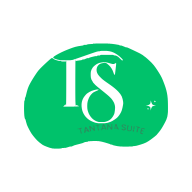
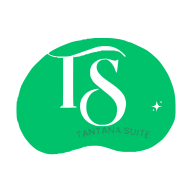
L icone de l application perd sa pastille blanche
Sur l ecran d accueil, la marque arrivait posee sur un rond blanc :
c est la pastille qu on voyait d abord, le logo n etait qu une tache
verte dedans. Les icones sont donc redessinees sur fond transparent,
avec une composition source-over premultipliee pour que les bords
restent propres sans fond derriere.

L icone maskable est verifiee : zero pixel hors du cercle de securite
de 80 %. Le lanceur peut donc y decouper un cercle, un carre arrondi
ou une goutte, il ne retire rien du dessin — le logo garde sa forme
quel que soit le reglage du telephone.

Seule exception, iOS : une apple-touch-icon transparente est remplie
de noir par le systeme, elle garde donc son fond blanc.

Le cache du service worker passe a v3, et l invite d installation
montre le SVG plutot que l icone carree, dont le cadre arrondi ne se
voyait plus.

diff --git a/scripts/generer-icones.js b/scripts/generer-icones.js
@@ -210,47 +210,29 @@ function remplir(polys, taille, SS) {
   return couverture;
 }
 
-/** Couverture d'un rectangle à coins arrondis, par sur-échantillonnage. */
-function couvertureTuile(taille, rayon, SS) {
-  const c = new Float32Array(taille * taille);
-  const dedans = (x, y) => {
-    const cx = Math.min(Math.max(x, rayon), taille - rayon);
-    const cy = Math.min(Math.max(y, rayon), taille - rayon);
-    if (x >= rayon && x <= taille - rayon) return y >= 0 && y <= taille;
-    if (y >= rayon && y <= taille - rayon) return x >= 0 && x <= taille;
-    return (x - cx) ** 2 + (y - cy) ** 2 <= rayon * rayon;
-  };
-  for (let y = 0; y < taille; y++) {
-    for (let x = 0; x < taille; x++) {
-      let n = 0;
-      for (let sy = 0; sy < SS; sy++) {
-        for (let sx = 0; sx < SS; sx++) {
-          if (dedans(x + (sx + 0.5) / SS, y + (sy + 0.5) / SS)) n++;
-        }
-      }
-      c[y * taille + x] = n / (SS * SS);
-    }
-  }
-  return c;
-}
-
 // --------------------------------------------------------------- Dessin
 
-const FOND = [255, 255, 255];
+const BLANC = [255, 255, 255];
 
 /**
+ * Dessine la marque dans un carré.
+ *
+ * Le fond est transparent par défaut : posée sur une pastille blanche,
+ * la marque devenait un rond blanc avec une tache verte dedans, et
+ * c'est la pastille qu'on voyait d'abord. Sans fond, le lanceur peut
+ * bien découper ce qu'il veut — il n'y a rien à découper autour du
+ * dessin.
+ *
  * @param taille     côté du carré, en pixels.
- * @param partRayon  rayon des coins, en part du côté (0 = carré plein).
+ * @param fond       couleur de fond, ou `null` pour un fond transparent.
  * @param partMarque largeur de la marque, en part du côté.
  */
-function dessiner(logo, taille, partRayon, partMarque) {
+function dessiner(logo, taille, fond, partMarque) {
   const SS = 8;
   const [bx, by, bw, bh] = logo.boite;
   const echelle = (taille * partMarque) / bw;
   const dx = (taille - bw * echelle) / 2 - bx * echelle;
   const dy = (taille - bh * echelle) / 2 - by * echelle;
-
-  const tuile = partRayon > 0 ? couvertureTuile(taille, taille * partRayon, 4) : null;
 
   const couches = logo.chemins.map((c) => ({
     couleur: c.couleur,
@@ -263,16 +245,29 @@ function dessiner(logo, taille, partRayon, partMarque) {
 
   const px = Buffer.alloc(taille * taille * 4);
   for (let i = 0; i < taille * taille; i++) {
-    const rgb = [FOND[0], FOND[1], FOND[2]];
+    // Composition « source-over » en couleurs prémultipliées : c'est ce
+    // qui donne des bords propres quand le fond est transparent. Une
+    // moyenne classique y ferait apparaître un liseré noir.
+    let r = fond ? fond[0] : 0;
+    let g = fond ? fond[1] : 0;
+    let b = fond ? fond[2] : 0;
+    let alpha = fond ? 1 : 0;
     for (const couche of couches) {
       const a = couche.couverture[i];
       if (a <= 0) continue;
-      for (let c = 0; c < 3; c++) rgb[c] = rgb[c] * (1 - a) + couche.couleur[c] * a;
+      r = couche.couleur[0] * a + r * alpha * (1 - a);
+      g = couche.couleur[1] * a + g * alpha * (1 - a);
+      b = couche.couleur[2] * a + b * alpha * (1 - a);
+      alpha = a + alpha * (1 - a);
+      if (alpha > 0) {
+        r /= alpha;
+        g /= alpha;
+        b /= alpha;
+      }
     }
-    const alpha = tuile ? tuile[i] : 1;
-    px[i * 4] = Math.round(rgb[0]);
-    px[i * 4 + 1] = Math.round(rgb[1]);
-    px[i * 4 + 2] = Math.round(rgb[2]);
+    px[i * 4] = Math.round(r);
+    px[i * 4 + 1] = Math.round(g);
+    px[i * 4 + 2] = Math.round(b);
     px[i * 4 + 3] = Math.round(alpha * 255);
   }
   return encoderPng(taille, taille, px);
@@ -302,16 +297,19 @@ const logo = lireLogo(path.join(dossier, "logo.svg"));
 console.log(`  source  logo.svg — boîte ${logo.boite.join(" ")}, ${logo.chemins.length} chemins`);
 
 const fichiers = [
-  ["icon-192.png", dessiner(logo, 192, 0.22, 0.76)],
-  ["icon-512.png", dessiner(logo, 512, 0.22, 0.76)],
-  // Maskable : le système rogne jusqu'à 20 % de chaque bord, donc pas de
-  // coins arrondis à nous et une marque nettement plus petite.
-  ["icon-maskable-512.png", dessiner(logo, 512, 0, 0.58)],
-  // iOS remplit de NOIR toute transparence d'une apple-touch-icon, et
-  // applique ensuite son propre masque arrondi : il lui faut donc un
-  // carré parfaitement opaque, sans coins arrondis de notre part.
-  ["icon-apple-180.png", dessiner(logo, 180, 0, 0.72)],
-  ["favicon.ico", encoderIco(dessiner(logo, 48, 0.18, 0.88), 48)],
+  ["icon-192.png", dessiner(logo, 192, null, 0.84)],
+  ["icon-512.png", dessiner(logo, 512, null, 0.84)],
+  // Maskable : Android découpe l'icône à la forme du lanceur — cercle,
+  // carré arrondi, goutte. Tout doit donc tenir dans le cercle central
+  // de 80 %, sans quoi le découpage entamerait le dessin. La marque
+  // étant plus large que haute, sa diagonale vaut 1,24 fois sa largeur :
+  // 0,60 du côté la laisse rentrer avec de la marge.
+  ["icon-maskable-512.png", dessiner(logo, 512, null, 0.6)],
+  // Seule exception : iOS remplit de NOIR toute transparence d'une
+  // apple-touch-icon. Un fond y est donc imposé, et le blanc du dessin
+  // d'origine vaut mieux que du noir.
+  ["icon-apple-180.png", dessiner(logo, 180, BLANC, 0.74)],
+  ["favicon.ico", encoderIco(dessiner(logo, 48, null, 0.94), 48)],
 ];
 for (const [nom, buf] of fichiers) {
   fs.writeFileSync(path.join(dossier, nom), buf);

diff --git a/src/components/shared/InstallPrompt.tsx b/src/components/shared/InstallPrompt.tsx
@@ -116,13 +116,10 @@ export const InstallPrompt: React.FC = () => {
         className="app-card flex items-start gap-3 p-3.5 sm:p-4"
         style={{ boxShadow: "var(--elev-3)" }}
       >
-        <img
-          src="/icon-192.png"
-          alt=""
-          width={40}
-          height={40}
-          className="h-10 w-10 shrink-0 rounded-xl"
-        />
+        {/* Le SVG plutôt que l'icône carrée : celle-ci est maintenant
+            transparente, son cadre arrondi ne se voyait donc plus, et le
+            vectoriel reste net quel que soit l'écran. */}
+        <img src="/logo.svg" alt="" width={49} height={36} className="h-9 w-auto shrink-0" />
 
         <div className="min-w-0 flex-1">
           <p className="text-sm font-semibold text-foreground">

diff --git a/public/sw.js b/public/sw.js
@@ -22,7 +22,7 @@
  * hors ligne, et c'est un choix.
  */
 
-const VERSION = "tantana-v2";
+const VERSION = "tantana-v3";
 const CACHE_STATIQUE = `${VERSION}-statique`;
 const CACHE_POLICES = `${VERSION}-polices`;
 
